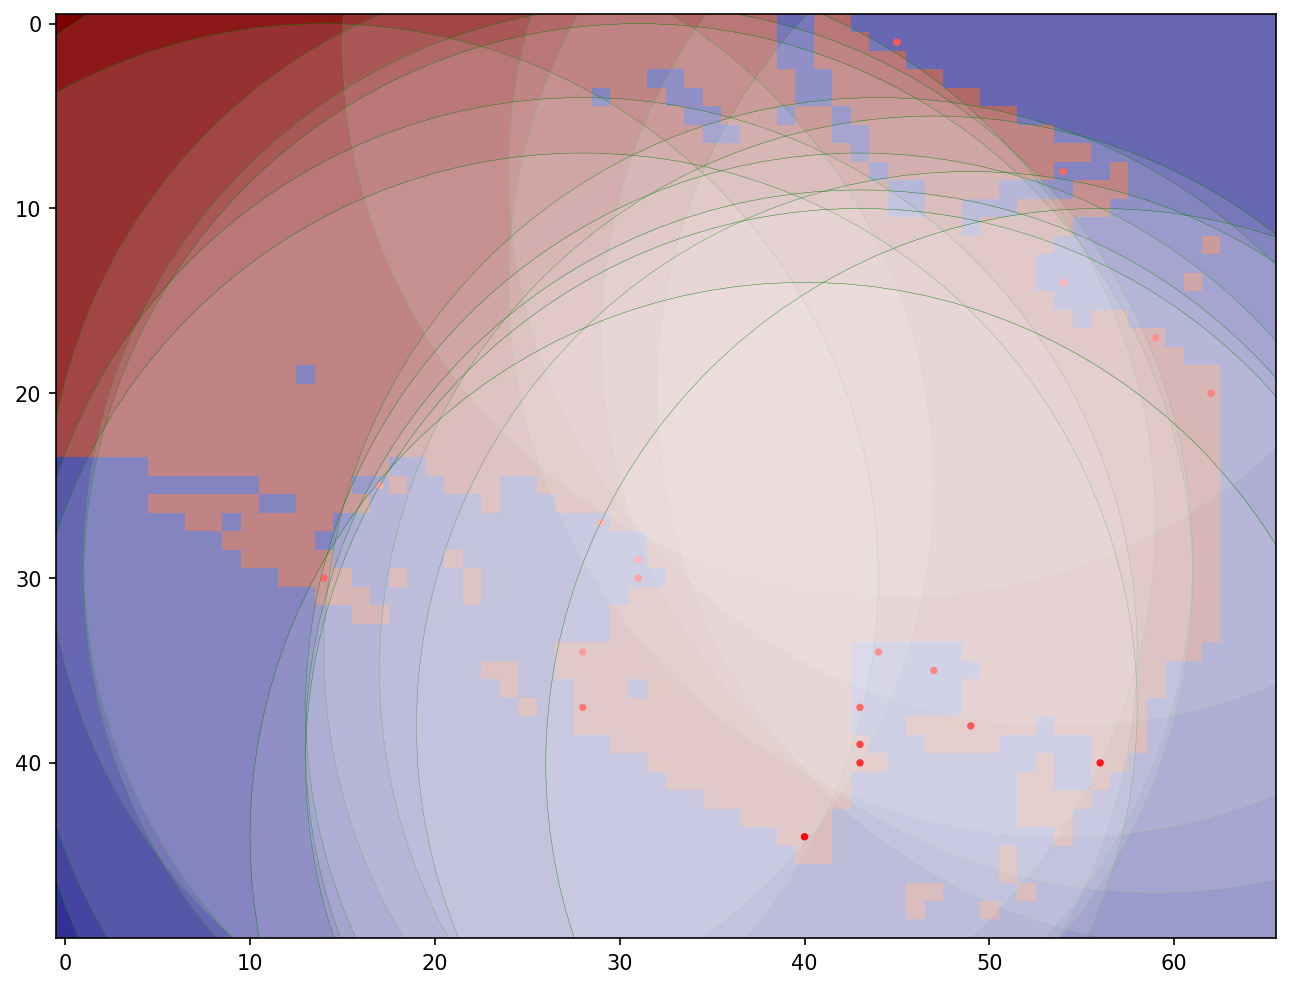
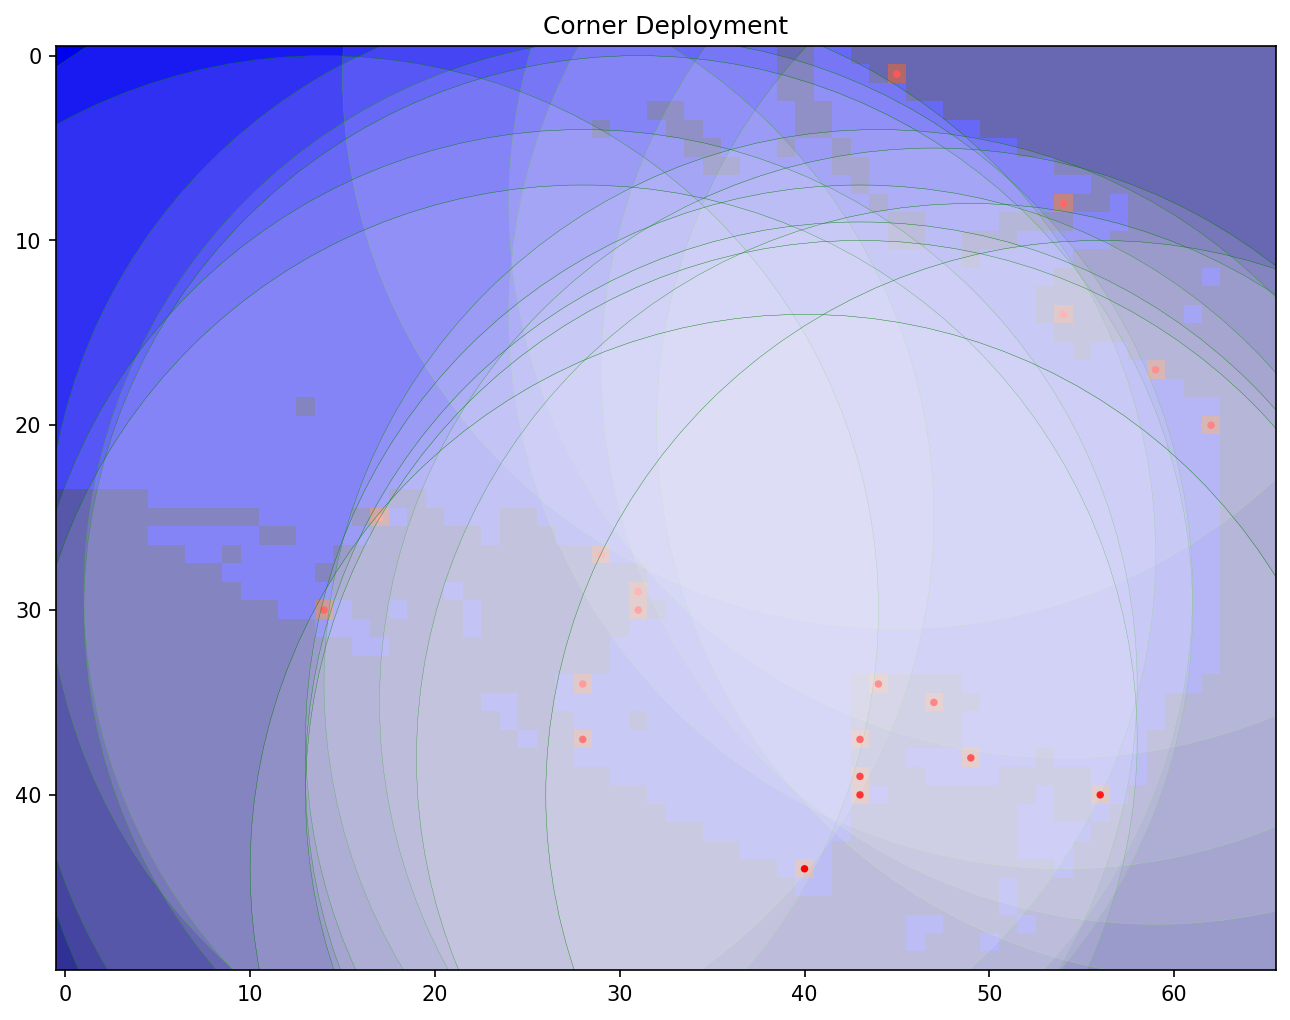
25.02.03

diff --git a/revised_main.py b/revised_main.py
@@ -5,7 +5,10 @@ from _VisualModule import *
 from _HarrisCorner.cv_detector import *
 from _SensorModule import Sensor
 from _SensorModule.coverage import *
- 
+import os
+os.environ["NUMBA_THREADING_LAYER"] = "tbb"
+
+
 # 사용할 알고리즘
 from _Algorithm.GA import *
 from _Algorithm.PSO import *
@@ -19,17 +22,17 @@ class Main:
         self.coverage = coverage
         self.GEN = generation
         self.map_name = map_name
-        
+
     def record_metadata(self, runtime, num_sensor, sensor_positions, output_dir="__RESULTS__"):
+        """실험 결과 메타데이터 저장"""
         if not os.path.exists(output_dir):
             os.makedirs(output_dir)
         output_file = os.path.join(output_dir, f"result_{time.strftime('%Y%m%d_%H%M%S')}.json")
         current_time = time.strftime("%Y-%m-%d %H:%M:%S")
         cpu_info = get_cpu_info()['brand_raw']
 
-        # numpy 타입을 파이썬 기본 타입으로 변환
-        sensor_positions = [(int(pos[0]), int(pos[1])) for pos in sensor_positions]
-        # 메타데이터를 JSON 형식으로 저장
+        sensor_positions = [(int(pos[0]), int(pos[1])) for pos in sensor_positions]  # numpy -> 기본 타입 변환
+
         metadata = {
             "Timestamp": current_time,
             "CPU Name": cpu_info,
@@ -40,46 +43,54 @@ class Main:
         }
         with open(output_file, mode='w') as file:
             json.dump(metadata, file, separators=(',', ':'))
-            
-    def corner_deploy(self, map):
-        layer_0 = map
-        #최외곽 지점 추출 및 배치
-        corner_instance =  HarrisCorner(layer_0)
-        corner_points = corner_instance.extract(corner_instance.harrisCorner(corner_instance.gaussianBlur(self.MAP)))
-        self.vis.showJetMap_circle("", layer_0, self.coverage, corner_points)
-        layer_corner = copy.deepcopy(layer_0)
+
+    def corner_deploy(self):
+        """최외곽 지점 센서 배치"""
+        layer_corner = copy.deepcopy(self.MAP)
+        corner_instance = HarrisCorner(layer_corner)
+        corner_points = corner_instance.extract(
+            corner_instance.harrisCorner(corner_instance.gaussianBlur(layer_corner))
+        )
+
+        # 센서 배치 (각 센서 위치를 10으로 표시)
         for pos in corner_points:
             layer_corner[pos[1], pos[0]] = 10
-            
+
+        # 시각화
+        self.vis.showJetMap_circle("Corner Deployment", layer_corner, self.coverage, corner_points)
+
         return layer_corner, corner_points
-    
+
     def inner_sensor_deploy(self, layer_corner):
-        layer_inner = layer_corner
-        inner_points = sensor_GA(self , layer_corner, self.GEN).run()
+        """GA 최적화 기반 내부 센서 배치"""
         layer_inner = copy.deepcopy(layer_corner)
+        inner_points = sensor_GA(layer_inner, self.coverage, self.GEN).run()
+
+        # 내부 센서 배치
         for pos in inner_points:
             layer_inner[pos[1], pos[0]] = 10
-            
-            
+
+        # 시각화
+        self.vis.showJetMap("Final Sensor Deployment", layer_inner)
+
         return layer_inner, inner_points
-            
+
     def run(self):
-        layer_corner = self.corner_deploy(self.MAP)
-        print(layer_corner[1])
-        #layer_inner = self.inner_sensor_deploy(layer_corner[0])
-        
-        #return layer_inner[1]
-        
-        
-        
-        
-        
+        """전체 실행 흐름"""
+        start_time = time.time()
 
-    
+        # 1. 최외곽 센서 배치
+        layer_corner, corner_points = self.corner_deploy()
 
+        # 2. 내부 센서 최적화 배치
+        layer_result, inner_points = self.inner_sensor_deploy(layer_corner)
 
-#코드본체
+        # 3. 메타데이터 기록
+        total_sensors = len(corner_points) + len(inner_points)
+        runtime = time.time() - start_time
+        self.record_metadata(runtime, total_sensors, corner_points + inner_points)
+
+# 코드 본체
 if __name__ == "__main__":
-    for i in range(1):
-        map_name = "bot_uav"
-        algorithm = Main(map_name, 30, 50).run()
+    map_name = "bot_uav"
+    Main(map_name, 30, 50).run()

diff --git a/_HarrisCorner/cv_detector.py b/_HarrisCorner/cv_detector.py
@@ -5,13 +5,13 @@ class HarrisCorner():
     def __init__(self, MAP):
         self.map_data = np.array(MAP, dtype=np.uint8)
     
+    def Blur(self, map, ksize=(9,9)):
+        blurred_map = cv2.blur(src=np.array(map), ksize=ksize)
+        return blurred_map
+    
     """가우시안 블러"""
     def gaussianBlur(self, map, ksize=(9,9), sigX=0, sigY=0):
         blurred_map = cv2.GaussianBlur(src=np.array(map,dtype=np.uint8), ksize=ksize, sigmaX=sigX, sigmaY=sigY)
-        return blurred_map
-    
-    def Blur(self, map, ksize=(9,9)):
-        blurred_map = cv2.blur(src=np.array(map), ksize=ksize)
         return blurred_map
     
     """헤리스 코너 탐색"""
@@ -21,16 +21,13 @@ class HarrisCorner():
         # 임계값 설정
         threshold = 0.1 * filtered_map.max()
         filtered_map[filtered_map < threshold] = 0
-        
         # 비최대 억제 적용
         dilated_map = cv2.dilate(filtered_map, None)  # 최대 응답값 지점 강조
         non_max_suppressed = np.zeros_like(filtered_map)
         non_max_suppressed[(filtered_map == dilated_map) & (filtered_map > threshold)] = filtered_map[(filtered_map == dilated_map) & (filtered_map > threshold)]
-        
         # 이진화된 결과 생성
         binarized_result = np.zeros_like(non_max_suppressed, dtype=np.uint8)
         binarized_result[non_max_suppressed > 0] = 1
-        
         return binarized_result
     
     def onlyHarris(self, map, block_size=7, ksize=3, k=0.03):
@@ -40,18 +37,7 @@ class HarrisCorner():
         filtered_map[filtered_map != threshold] = 1
         return filtered_map
     
-    
-    
-    #실험-대조 메서드
-    def harrisCorner_non_dilated(self, map, block_size=3, ksize=3, k=0.01):
-        # Harris 코너 탐지 실행
-        filtered_map = cv2.cornerHarris(src=np.array(map,dtype=np.uint8), blockSize=block_size, ksize=ksize, k=k)
-        threshold = 0.75 * filtered_map.max()
-        filtered_map[filtered_map < 3.0] = 0
-        binarized_result = np.zeros_like(filtered_map, dtype=np.uint8)
-        binarized_result[filtered_map > 0] = 1
-        return binarized_result
-    
     def extract(self, map):
+        # y, x --> x, y 변환
         points = np.where(map == 1)
         return list(zip(points[1], points[0]))

diff --git a/_Algorithm/GA.py b/_Algorithm/GA.py
@@ -2,6 +2,9 @@ import pygad
 import os, sys, random, copy, time, csv
 import numpy as np
 from datetime import datetime
+os.environ["NUMBA_THREADING_LAYER"] = "omp"
+
+
 
 __file__ = os.getcwd()
 __root__ = os.path.dirname(__file__)
